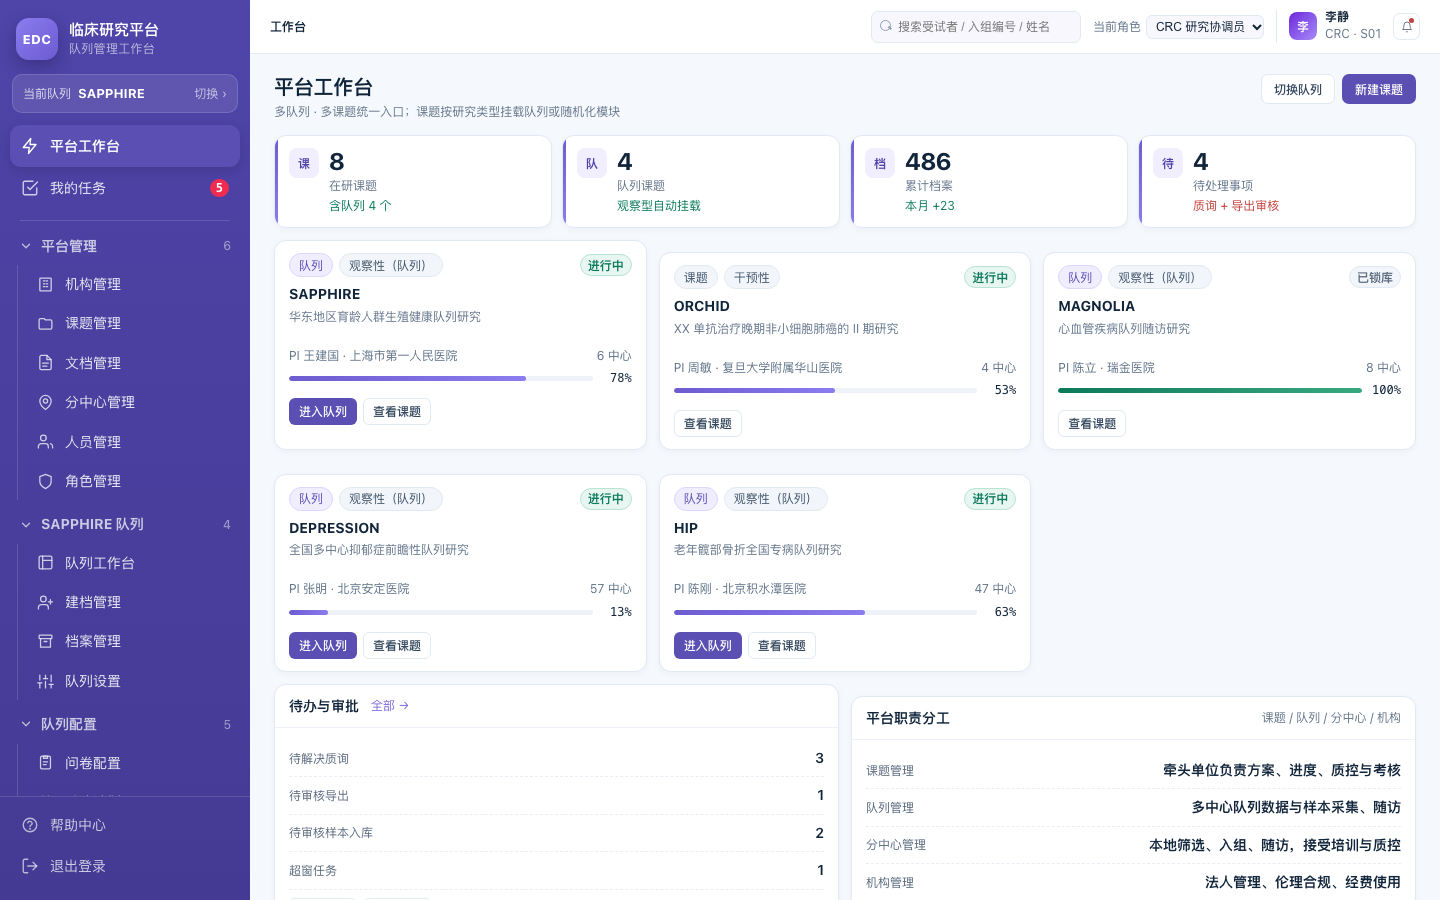
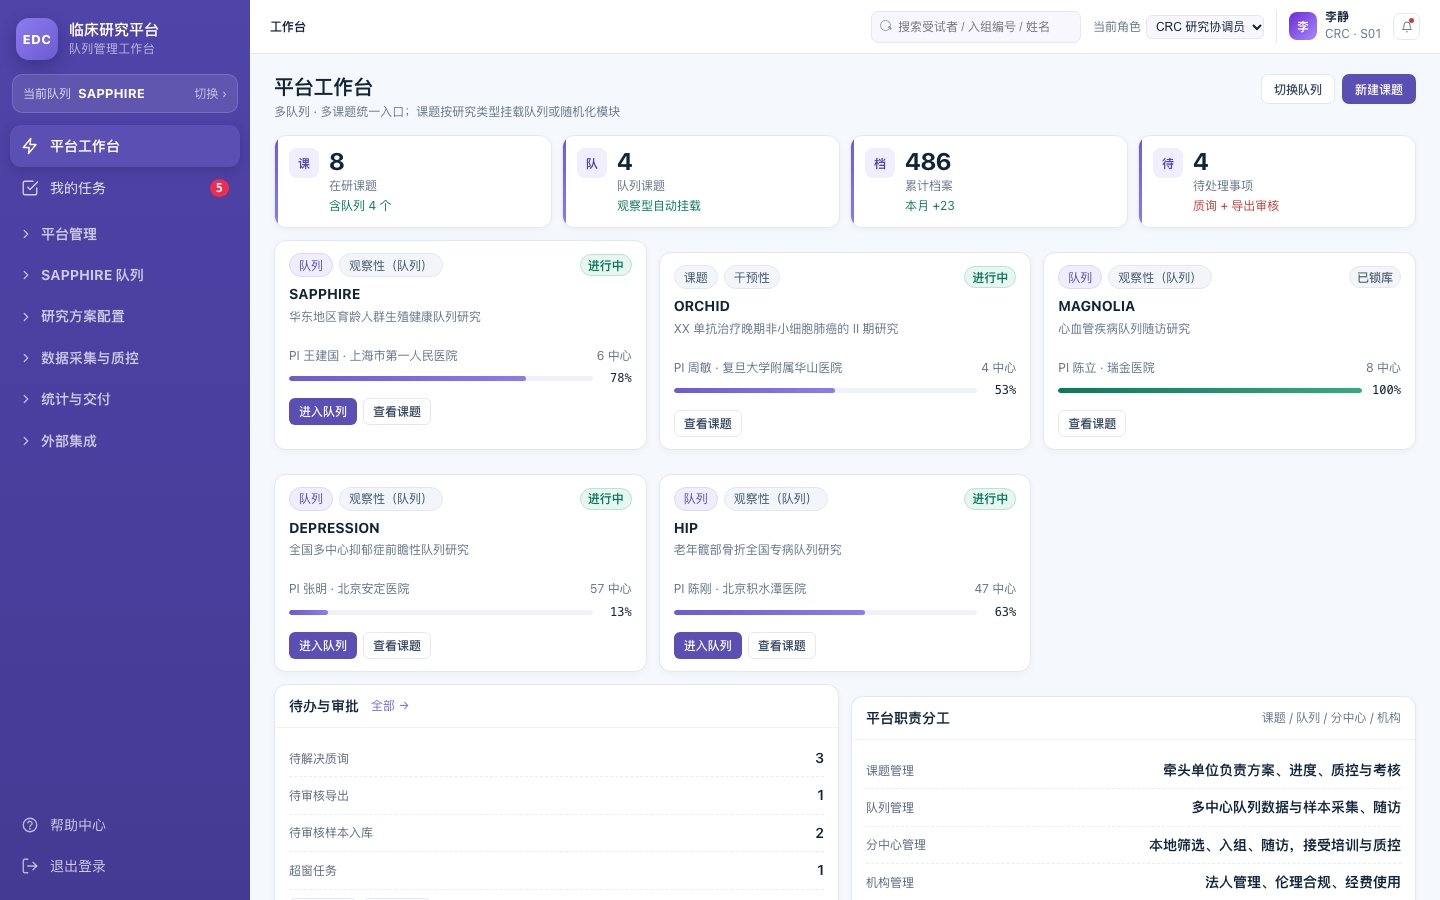
feat: collapsed-first-level sidebar, rename research design config

diff --git a/docs/index.html b/docs/index.html
@@ -65,7 +65,7 @@
   .nav svg{width:18px;height:18px;stroke-width:1.8;opacity:.85;flex-shrink:0}
   .nav.active svg{opacity:1}
   .nav .cnt{margin-left:auto;font-family:var(--mono);font-size:12px;background:#ef2b4f;color:#fff;border-radius:999px;padding:0 6px;line-height:18px;font-weight:600}
-  .sb-foot{margin-top:auto;padding:8px 10px 14px;border-top:1px solid rgba(255,255,255,.14)}
+  .sb-foot{margin-top:auto;padding:8px 10px 14px;border-top:none}
   .sb-foot .nav{color:rgba(255,255,255,.75);padding:8px 10px}
   .sb-foot .nav:hover{color:#fff}
 
@@ -77,7 +77,7 @@
   .nav-group .chev-svg{width:14px;height:14px;flex-shrink:0;opacity:.9;transition:transform .15s}
   .nav-group .chev-svg.closed{transform:rotate(-90deg)}
   .nav-group .gcount{margin-left:auto;font-size:12px;font-weight:500;color:rgba(255,255,255,.45)}
-  .sb-sub{display:flex;flex-direction:column;gap:1px;margin:0 0 5px 7px;padding-left:9px;border-left:1px solid rgba(255,255,255,.14)}
+  .sb-sub{display:flex;flex-direction:column;gap:1px;margin:0 0 5px;padding-left:14px}
   .sb-sub.collapsed{display:none}
   .nav.sub{padding:7px 9px;border-radius:9px}
   .nav.sub svg{width:17px;height:17px}
@@ -788,11 +788,13 @@ const state = {
 const NAV = [
   {group:'平台管理',items:[{id:'orgs',name:'机构管理'},{id:'projects',name:'课题管理'},{id:'docs',name:'文档管理'},{id:'sites',name:'分中心管理'},{id:'users',name:'人员管理'},{id:'roles',name:'角色管理'}]},
   {group:'当前队列',items:[{id:'cohort',name:'队列工作台'},{id:'enroll',name:'建档管理'},{id:'archives',name:'档案管理'},{id:'qsettings',name:'队列设置'}]},
-  {group:'队列配置',items:[{id:'questionnaires',name:'问卷配置'},{id:'plan',name:'随访计划'},{id:'calendar',name:'任务日历'},{id:'samples',name:'样本管理'},{id:'templates',name:'模板与数据元'}]},
+  {group:'研究方案配置',items:[{id:'questionnaires',name:'问卷配置'},{id:'plan',name:'随访计划'},{id:'calendar',name:'任务日历'},{id:'samples',name:'样本管理'},{id:'templates',name:'模板与数据元'}]},
   {group:'数据采集与质控',items:[{id:'subjects',name:'对象管理'},{id:'dropouts',name:'脱落管理'},{id:'queries',name:'质询管理',badge:'3'},{id:'deviations',name:'超窗管理'},{id:'review',name:'数据审核',badge:'2'},{id:'random',name:'随机化'}]},
   {group:'统计与交付',items:[{id:'stats',name:'队列统计'},{id:'forms',name:'表单统计'},{id:'export',name:'数据导出'}]},
   {group:'外部集成',items:[{id:'integration',name:'HIS/LIS 集成'}]}
 ];
+
+NAV.forEach(g=>{ if(state.collapsedGroups[g.group]===undefined) state.collapsedGroups[g.group]=true; });
 
 const PANEL = {
   home:{title:'平台工作台',desc:'多课题、多队列的统一入口：查看在研项目、入组进度与待办，进入单个队列操作台。',tips:['点击「进入队列」切换到单队列工作台','「切换课题」可体验多队列隔离','机构/角色/文档等平台能力都在左侧平台管理组']},
@@ -912,14 +914,13 @@ function renderNav(){
   $('#nav').innerHTML=`
     <div class="sb-pin">${pin('home',ICON.zap,'平台工作台')}
       <div class="nav" data-action="notify">${ICON.task}<span>我的任务</span><span class="cnt">${todo}</span></div></div>
-    <div class="sb-sep"></div>
     ${NAV.map(g=>{
       const title=g.group==='当前队列'?state.currentQueue+' 队列':g.group;
       const collapsed=!!(state.collapsedGroups||{})[g.group];
       const groupActive=g.items.some(it=>it.id===state.page||(it.id==='subjects'&&state.page==='subject-detail'));
       return `<div class="sb-group">
         <div class="nav-group ${groupActive?'active':''}" data-action="toggle-group" data-group="${g.group}">
-          <svg class="chev-svg ${collapsed?'closed':''}" viewBox="0 0 24 24" fill="none" stroke="currentColor" stroke-width="2.2" stroke-linecap="round" stroke-linejoin="round"><path d="m6 9 6 6 6-6"/></svg><span>${title}</span><span class="gcount">${g.items.length}</span>
+          <svg class="chev-svg ${collapsed?'closed':''}" viewBox="0 0 24 24" fill="none" stroke="currentColor" stroke-width="2.2" stroke-linecap="round" stroke-linejoin="round"><path d="m6 9 6 6 6-6"/></svg><span>${title}</span>
         </div>
         <div class="sb-sub ${collapsed?'collapsed':''}">
           ${g.items.map(it=>{
@@ -2628,8 +2629,7 @@ function openCollectSample(subject, tp, type){
 
 /* ================= 启动（支持 #page 深链） ================= */
 const initPage=(location.hash||'').replace('#','');
-if(PANEL[initPage]) state.page=initPage;
-render();
+if(PANEL[initPage]) go(initPage); else render();
 window.addEventListener('hashchange',()=>{
   const p=(location.hash||'').replace('#','');
   if(PANEL[p]){ state.page=p; render(); }

diff --git a/index.html b/index.html
@@ -65,7 +65,7 @@
   .nav svg{width:18px;height:18px;stroke-width:1.8;opacity:.85;flex-shrink:0}
   .nav.active svg{opacity:1}
   .nav .cnt{margin-left:auto;font-family:var(--mono);font-size:12px;background:#ef2b4f;color:#fff;border-radius:999px;padding:0 6px;line-height:18px;font-weight:600}
-  .sb-foot{margin-top:auto;padding:8px 10px 14px;border-top:1px solid rgba(255,255,255,.14)}
+  .sb-foot{margin-top:auto;padding:8px 10px 14px;border-top:none}
   .sb-foot .nav{color:rgba(255,255,255,.75);padding:8px 10px}
   .sb-foot .nav:hover{color:#fff}
 
@@ -77,7 +77,7 @@
   .nav-group .chev-svg{width:14px;height:14px;flex-shrink:0;opacity:.9;transition:transform .15s}
   .nav-group .chev-svg.closed{transform:rotate(-90deg)}
   .nav-group .gcount{margin-left:auto;font-size:12px;font-weight:500;color:rgba(255,255,255,.45)}
-  .sb-sub{display:flex;flex-direction:column;gap:1px;margin:0 0 5px 7px;padding-left:9px;border-left:1px solid rgba(255,255,255,.14)}
+  .sb-sub{display:flex;flex-direction:column;gap:1px;margin:0 0 5px;padding-left:14px}
   .sb-sub.collapsed{display:none}
   .nav.sub{padding:7px 9px;border-radius:9px}
   .nav.sub svg{width:17px;height:17px}
@@ -788,11 +788,13 @@ const state = {
 const NAV = [
   {group:'平台管理',items:[{id:'orgs',name:'机构管理'},{id:'projects',name:'课题管理'},{id:'docs',name:'文档管理'},{id:'sites',name:'分中心管理'},{id:'users',name:'人员管理'},{id:'roles',name:'角色管理'}]},
   {group:'当前队列',items:[{id:'cohort',name:'队列工作台'},{id:'enroll',name:'建档管理'},{id:'archives',name:'档案管理'},{id:'qsettings',name:'队列设置'}]},
-  {group:'队列配置',items:[{id:'questionnaires',name:'问卷配置'},{id:'plan',name:'随访计划'},{id:'calendar',name:'任务日历'},{id:'samples',name:'样本管理'},{id:'templates',name:'模板与数据元'}]},
+  {group:'研究方案配置',items:[{id:'questionnaires',name:'问卷配置'},{id:'plan',name:'随访计划'},{id:'calendar',name:'任务日历'},{id:'samples',name:'样本管理'},{id:'templates',name:'模板与数据元'}]},
   {group:'数据采集与质控',items:[{id:'subjects',name:'对象管理'},{id:'dropouts',name:'脱落管理'},{id:'queries',name:'质询管理',badge:'3'},{id:'deviations',name:'超窗管理'},{id:'review',name:'数据审核',badge:'2'},{id:'random',name:'随机化'}]},
   {group:'统计与交付',items:[{id:'stats',name:'队列统计'},{id:'forms',name:'表单统计'},{id:'export',name:'数据导出'}]},
   {group:'外部集成',items:[{id:'integration',name:'HIS/LIS 集成'}]}
 ];
+
+NAV.forEach(g=>{ if(state.collapsedGroups[g.group]===undefined) state.collapsedGroups[g.group]=true; });
 
 const PANEL = {
   home:{title:'平台工作台',desc:'多课题、多队列的统一入口：查看在研项目、入组进度与待办，进入单个队列操作台。',tips:['点击「进入队列」切换到单队列工作台','「切换课题」可体验多队列隔离','机构/角色/文档等平台能力都在左侧平台管理组']},
@@ -912,14 +914,13 @@ function renderNav(){
   $('#nav').innerHTML=`
     <div class="sb-pin">${pin('home',ICON.zap,'平台工作台')}
       <div class="nav" data-action="notify">${ICON.task}<span>我的任务</span><span class="cnt">${todo}</span></div></div>
-    <div class="sb-sep"></div>
     ${NAV.map(g=>{
       const title=g.group==='当前队列'?state.currentQueue+' 队列':g.group;
       const collapsed=!!(state.collapsedGroups||{})[g.group];
       const groupActive=g.items.some(it=>it.id===state.page||(it.id==='subjects'&&state.page==='subject-detail'));
       return `<div class="sb-group">
         <div class="nav-group ${groupActive?'active':''}" data-action="toggle-group" data-group="${g.group}">
-          <svg class="chev-svg ${collapsed?'closed':''}" viewBox="0 0 24 24" fill="none" stroke="currentColor" stroke-width="2.2" stroke-linecap="round" stroke-linejoin="round"><path d="m6 9 6 6 6-6"/></svg><span>${title}</span><span class="gcount">${g.items.length}</span>
+          <svg class="chev-svg ${collapsed?'closed':''}" viewBox="0 0 24 24" fill="none" stroke="currentColor" stroke-width="2.2" stroke-linecap="round" stroke-linejoin="round"><path d="m6 9 6 6 6-6"/></svg><span>${title}</span>
         </div>
         <div class="sb-sub ${collapsed?'collapsed':''}">
           ${g.items.map(it=>{
@@ -2628,8 +2629,7 @@ function openCollectSample(subject, tp, type){
 
 /* ================= 启动（支持 #page 深链） ================= */
 const initPage=(location.hash||'').replace('#','');
-if(PANEL[initPage]) state.page=initPage;
-render();
+if(PANEL[initPage]) go(initPage); else render();
 window.addEventListener('hashchange',()=>{
   const p=(location.hash||'').replace('#','');
   if(PANEL[p]){ state.page=p; render(); }
